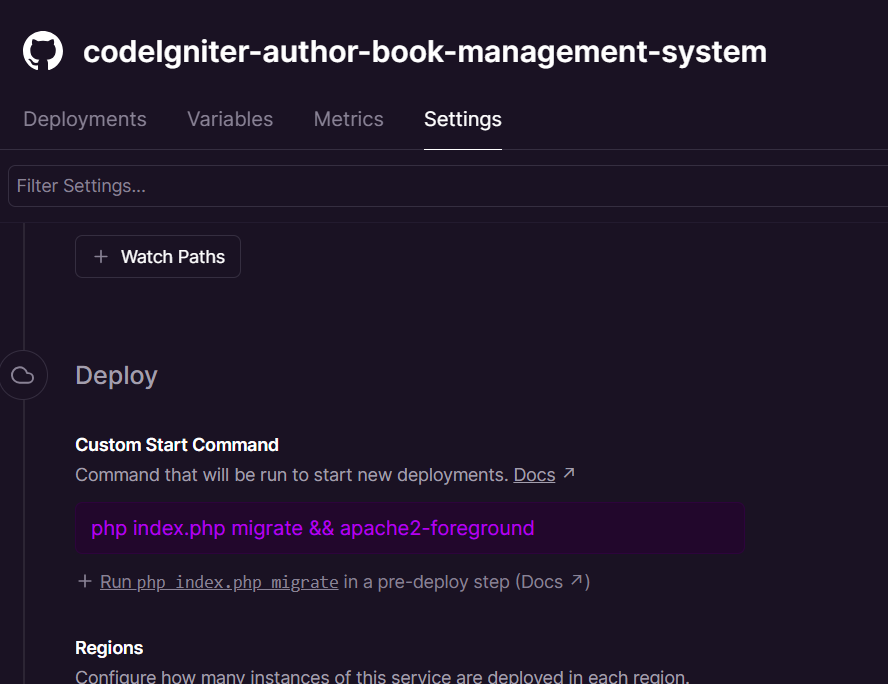
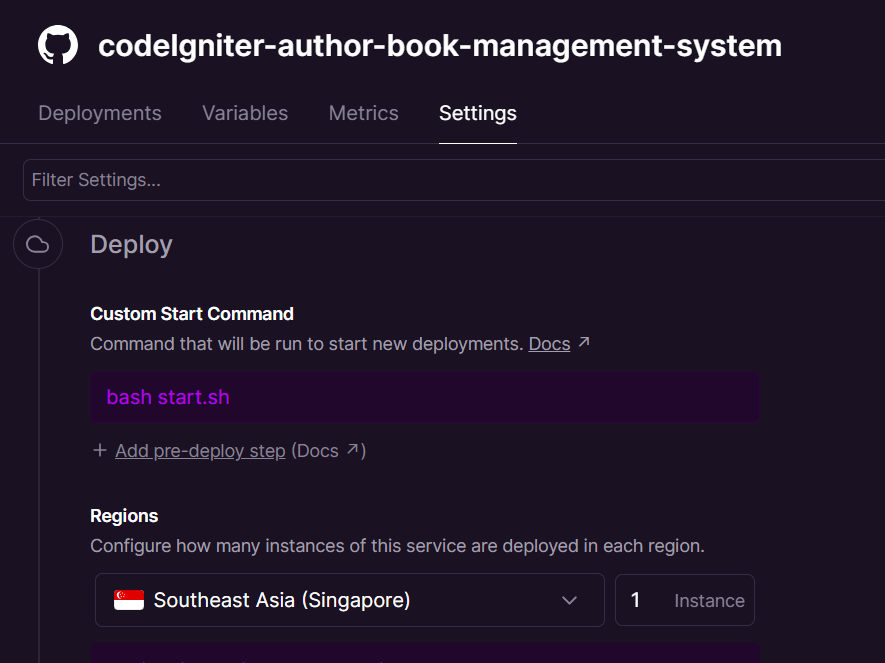
Added a start.sh file

diff --git a/assets/ProjectStructure.MD b/assets/ProjectStructure.MD
@@ -25,5 +25,9 @@ php spark migrate
 # Start the Local Server:
 php spark serve
 
+# Railway files:
+Dockerfile
+start.sh
+
 
 
